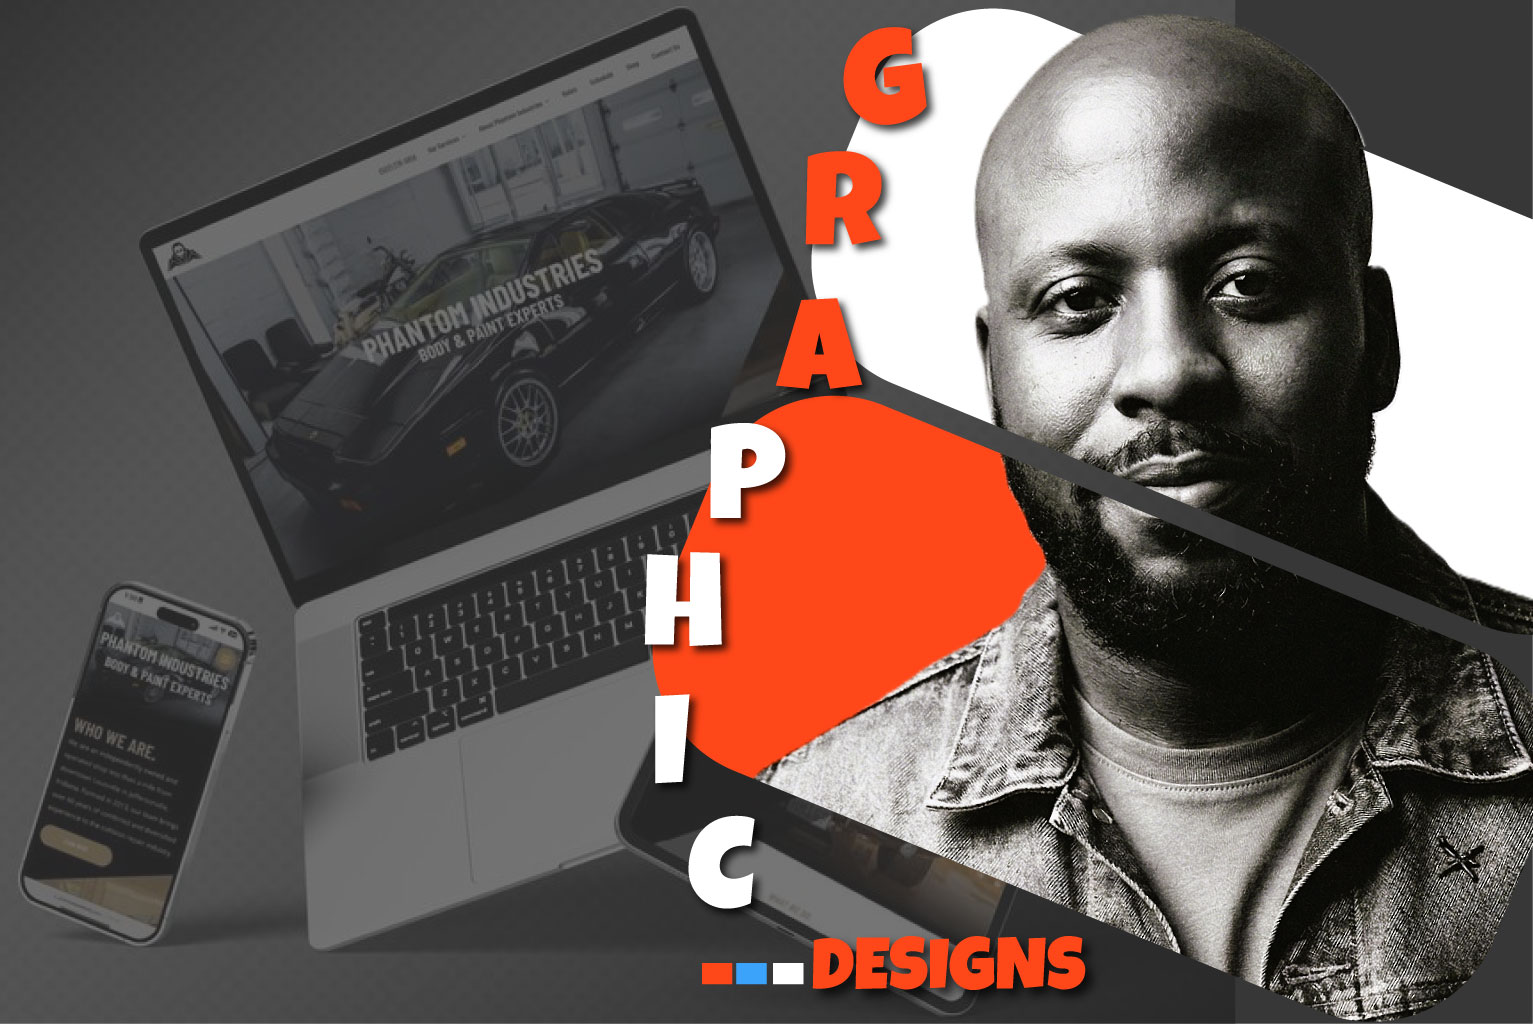
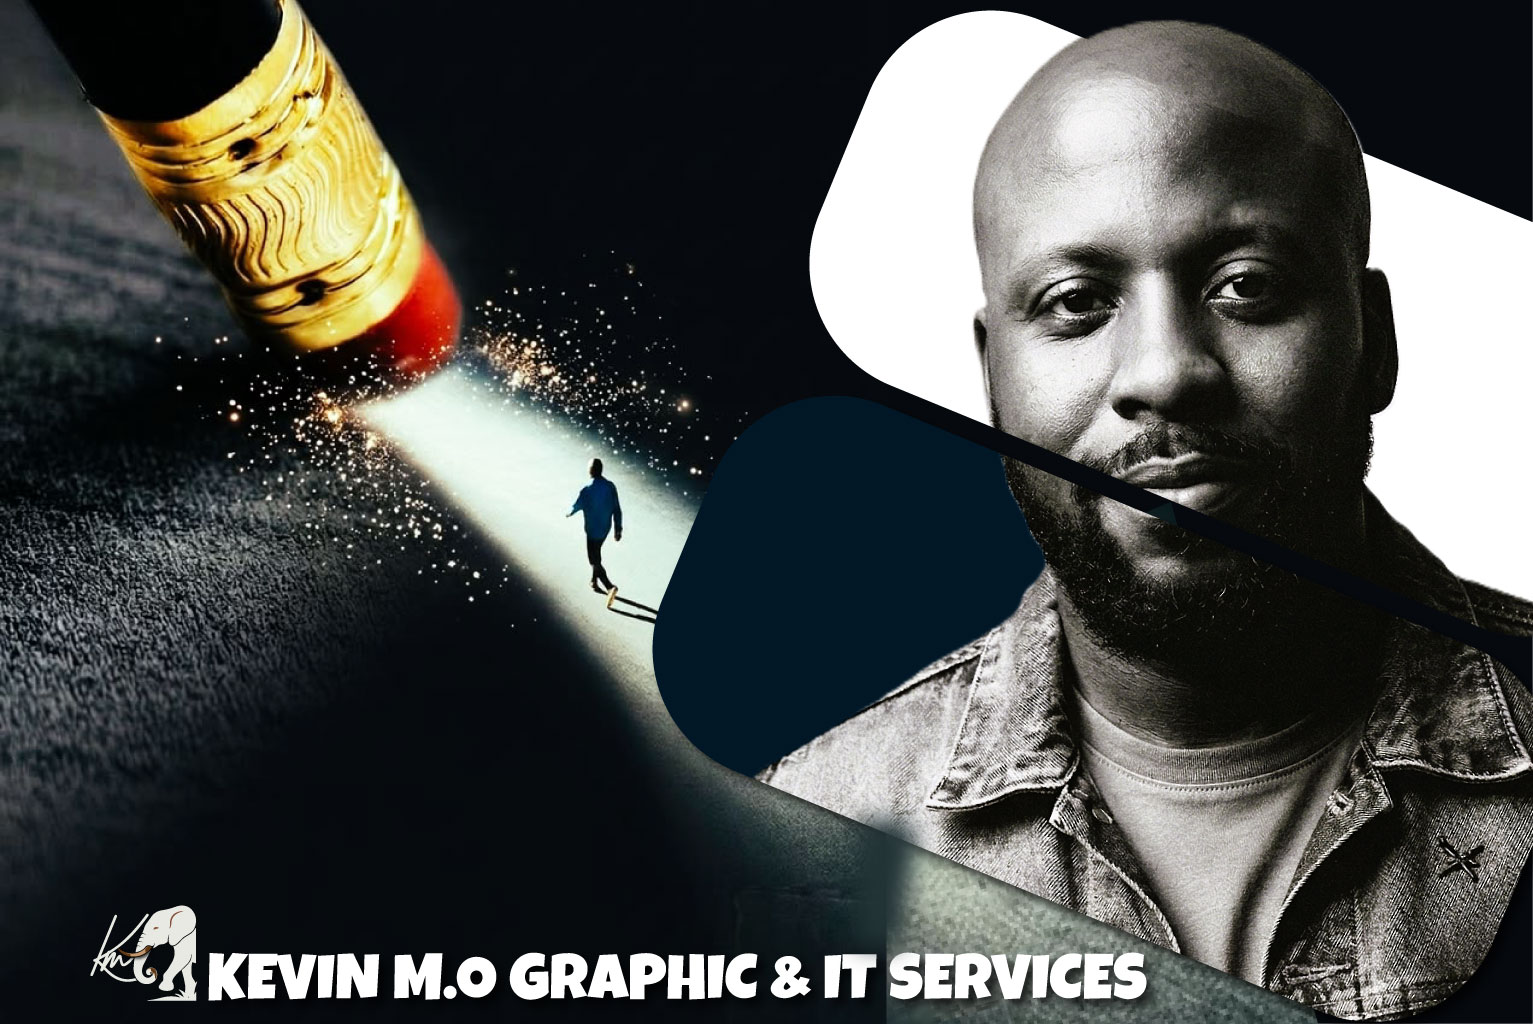
feat: finalize two-page branding and hero assets

diff --git a/style.css b/style.css
@@ -6474,8 +6474,8 @@ body.dark-mode .process-step:hover {
 
 /* Logo entrance + soft brand glow */
 .loader-content img {
-    width: 118px;
-    height: 118px;
+    width: 300px;
+    height: auto;
     object-fit: contain;
     margin-bottom: 22px;
     filter: drop-shadow(0 0 26px rgba(0, 191, 255, 0.30))
@@ -6584,8 +6584,8 @@ body.dark-mode .process-step:hover {
 /* Preloader responsive sizing */
 @media (max-width: 768px) {
     .loader-content img {
-        width: 92px;
-        height: 92px;
+        width: 300px;
+        height: auto;
         margin-bottom: 18px;
     }
 
@@ -6629,8 +6629,8 @@ body.dark-mode .process-step:hover {
 }
 
 #navbar .logo img {
-    width: 108px;
-    height: 80px;
+    width: 250px;
+    height: auto;
     display: block;
     object-fit: contain;
     border-radius: 6px;
@@ -6668,7 +6668,7 @@ body.dark-mode .process-step:hover {
 
 @media (max-width: 768px) {
     #navbar .logo { gap: 10px; }
-    #navbar .logo img { width: 65px; height: 55px; }
+    #navbar .logo img { width: 110px; height: auto; }
     #navbar .brand-text h2 { font-size: 22px; }
     #navbar .brand-text span { font-size: 11px; letter-spacing: 0.8px; margin-top: 4px; }
 }
@@ -8593,3 +8593,4 @@ section.process h2::after,     /* markup: <section class="process section" id="p
 .whatsapp {
     bottom: 110px;
 }
+

diff --git a/index.html b/index.html
@@ -20,7 +20,6 @@
 
         <img src="images/logos.png" alt="Logo">
 
-        <h2>KEVIN M.O GRAPHIC & IT SERVICES</h2>
 
         <div class="loader"></div>
 
@@ -89,14 +88,6 @@
 
         <img src="images/logos.png"
              alt="Kevin M.O Graphic & IT Services Logo">
-
-        <div class="brand-text">
-
-            <h2>KEVIN M.O</h2>
-
-            <span>GRAPHIC &amp; IT SERVICES</span>
-
-        </div>
 
     </a>
 

diff --git a/about.html b/about.html
@@ -72,14 +72,6 @@
         <img src="images/logos.png"
              alt="Kevin M.O Graphic & IT Services Logo">
 
-        <div class="brand-text">
-
-            <h2>KEVIN M.O</h2>
-
-            <span>GRAPHIC &amp; IT SERVICES</span>
-
-        </div>
-
     </a>
 
 
